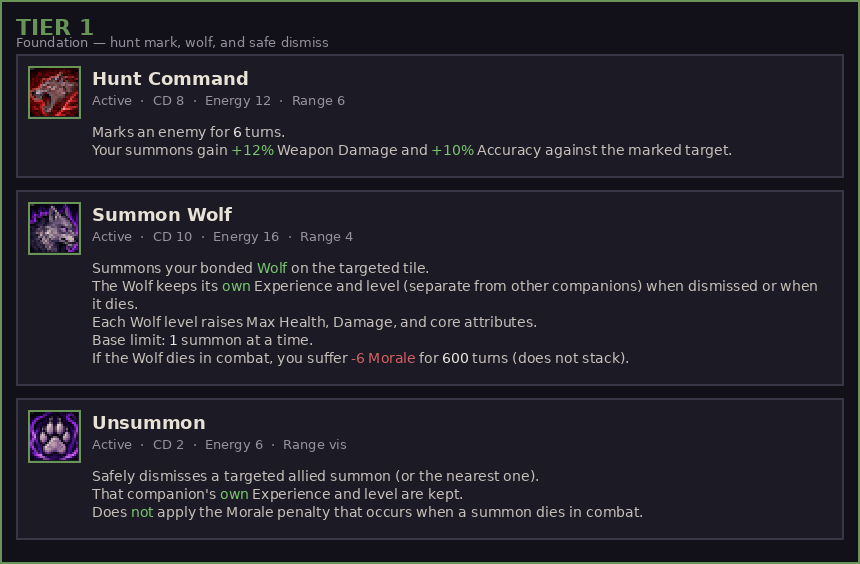
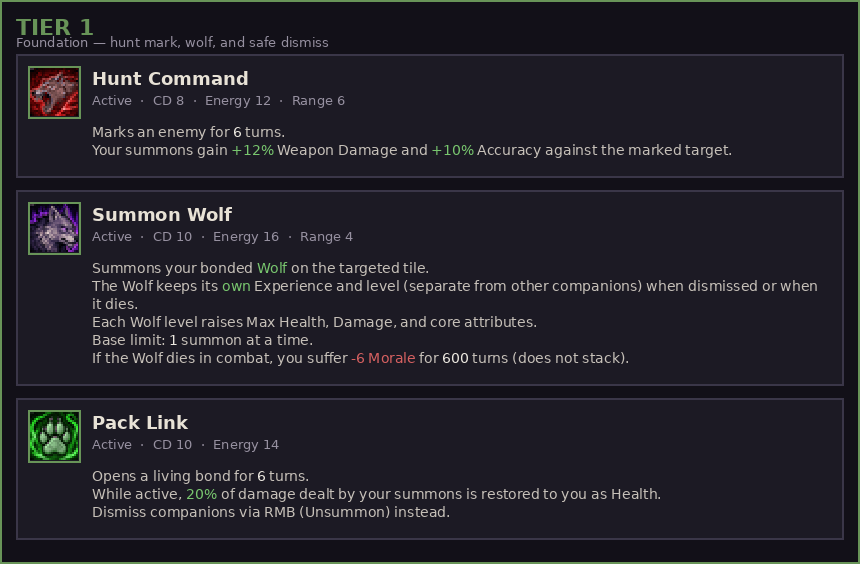
Refresh Necromancy and Summoner Nexus skill preview images.
Host tier/tree panels via jsDelivr after catbox started serving empty uploads.

Changed region(s): [[0.0907, 0.7234, 0.7558, 0.9344], [0.0302, 0.7234, 0.0907, 0.8138]]

diff --git a/summonner/_debug/nexus_preview/preview.html b/summonner/_debug/nexus_preview/preview.html
@@ -22,6 +22,6 @@
 <body>
   <h1>Summoner — skill overview preview</h1>
   <p class="note">Local preview only. Not published to Nexus yet.</p>
-  <img class="tree" src="skill_tree.png" alt="Skill tree" /><h2>Tier 1</h2><img class="tier" src="tier_1.png" alt="Tier 1" /><div class="names"><span><img src="../Sprites/s_hunt_command_0.png" width="24" height="24" style="image-rendering:pixelated;vertical-align:middle" /> Hunt Command <em>(active)</em></span><span><img src="../Sprites/s_summon_wolf_0.png" width="24" height="24" style="image-rendering:pixelated;vertical-align:middle" /> Summon Wolf <em>(active)</em></span><span><img src="../Sprites/s_unsummon_0.png" width="24" height="24" style="image-rendering:pixelated;vertical-align:middle" /> Unsummon <em>(active)</em></span></div><h2>Tier 2</h2><img class="tier" src="tier_2.png" alt="Tier 2" /><div class="names"><span><img src="../Sprites/s_alphas_howl_0.png" width="24" height="24" style="image-rendering:pixelated;vertical-align:middle" /> Alpha&#x27;s Howl <em>(active)</em></span><span><img src="../Sprites/s_pack_instincts_0.png" width="24" height="24" style="image-rendering:pixelated;vertical-align:middle" /> Pack Instincts <em>(passive)</em></span><span><img src="../Sprites/s_mend_pack_0.png" width="24" height="24" style="image-rendering:pixelated;vertical-align:middle" /> Mend Pack <em>(active)</em></span></div><h2>Tier 3</h2><img class="tier" src="tier_3.png" alt="Tier 3" /><div class="names"><span><img src="../Sprites/s_summon_crawler_0.png" width="24" height="24" style="image-rendering:pixelated;vertical-align:middle" /> Summon Crawler <em>(active)</em></span><span><img src="../Sprites/s_summon_bear_0.png" width="24" height="24" style="image-rendering:pixelated;vertical-align:middle" /> Summon Bear <em>(active)</em></span><span><img src="../Sprites/s_summon_bison_0.png" width="24" height="24" style="image-rendering:pixelated;vertical-align:middle" /> Summon Bison <em>(active)</em></span><span><img src="../Sprites/s_savage_bond_0.png" width="24" height="24" style="image-rendering:pixelated;vertical-align:middle" /> Savage Bond <em>(active)</em></span></div><h2>Tier 4</h2><img class="tier" src="tier_4.png" alt="Tier 4" /><div class="names"><span><img src="../Sprites/s_summon_gulon_0.png" width="24" height="24" style="image-rendering:pixelated;vertical-align:middle" /> Summon Gulon <em>(active)</em></span><span><img src="../Sprites/s_kindred_spirit_0.png" width="24" height="24" style="image-rendering:pixelated;vertical-align:middle" /> Kindred Spirit <em>(passive)</em></span><span><img src="../Sprites/s_primal_apex_0.png" width="24" height="24" style="image-rendering:pixelated;vertical-align:middle" /> Primal Apex <em>(active)</em></span></div>
+  <img class="tree" src="skill_tree.png" alt="Skill tree" /><h2>Tier 1</h2><img class="tier" src="tier_1.png" alt="Tier 1" /><div class="names"><span><img src="../Sprites/s_hunt_command_0.png" width="24" height="24" style="image-rendering:pixelated;vertical-align:middle" /> Hunt Command <em>(active)</em></span><span><img src="../Sprites/s_summon_wolf_0.png" width="24" height="24" style="image-rendering:pixelated;vertical-align:middle" /> Summon Wolf <em>(active)</em></span><span><img src="../Sprites/s_pack_link_0.png" width="24" height="24" style="image-rendering:pixelated;vertical-align:middle" /> Pack Link <em>(active)</em></span></div><h2>Tier 2</h2><img class="tier" src="tier_2.png" alt="Tier 2" /><div class="names"><span><img src="../Sprites/s_alphas_howl_0.png" width="24" height="24" style="image-rendering:pixelated;vertical-align:middle" /> Alpha&#x27;s Howl <em>(active)</em></span><span><img src="../Sprites/s_pack_instincts_0.png" width="24" height="24" style="image-rendering:pixelated;vertical-align:middle" /> Pack Instincts <em>(passive)</em></span><span><img src="../Sprites/s_mend_pack_0.png" width="24" height="24" style="image-rendering:pixelated;vertical-align:middle" /> Mend Pack <em>(active)</em></span></div><h2>Tier 3</h2><img class="tier" src="tier_3.png" alt="Tier 3" /><div class="names"><span><img src="../Sprites/s_summon_crawler_0.png" width="24" height="24" style="image-rendering:pixelated;vertical-align:middle" /> Summon Crawler <em>(active)</em></span><span><img src="../Sprites/s_summon_bear_0.png" width="24" height="24" style="image-rendering:pixelated;vertical-align:middle" /> Summon Bear <em>(active)</em></span><span><img src="../Sprites/s_summon_bison_0.png" width="24" height="24" style="image-rendering:pixelated;vertical-align:middle" /> Summon Bison <em>(active)</em></span><span><img src="../Sprites/s_savage_bond_0.png" width="24" height="24" style="image-rendering:pixelated;vertical-align:middle" /> Savage Bond <em>(active)</em></span></div><h2>Tier 4</h2><img class="tier" src="tier_4.png" alt="Tier 4" /><div class="names"><span><img src="../Sprites/s_summon_gulon_0.png" width="24" height="24" style="image-rendering:pixelated;vertical-align:middle" /> Summon Gulon <em>(active)</em></span><span><img src="../Sprites/s_kindred_spirit_0.png" width="24" height="24" style="image-rendering:pixelated;vertical-align:middle" /> Kindred Spirit <em>(passive)</em></span><span><img src="../Sprites/s_primal_apex_0.png" width="24" height="24" style="image-rendering:pixelated;vertical-align:middle" /> Primal Apex <em>(active)</em></span></div>
 </body>
 </html>
